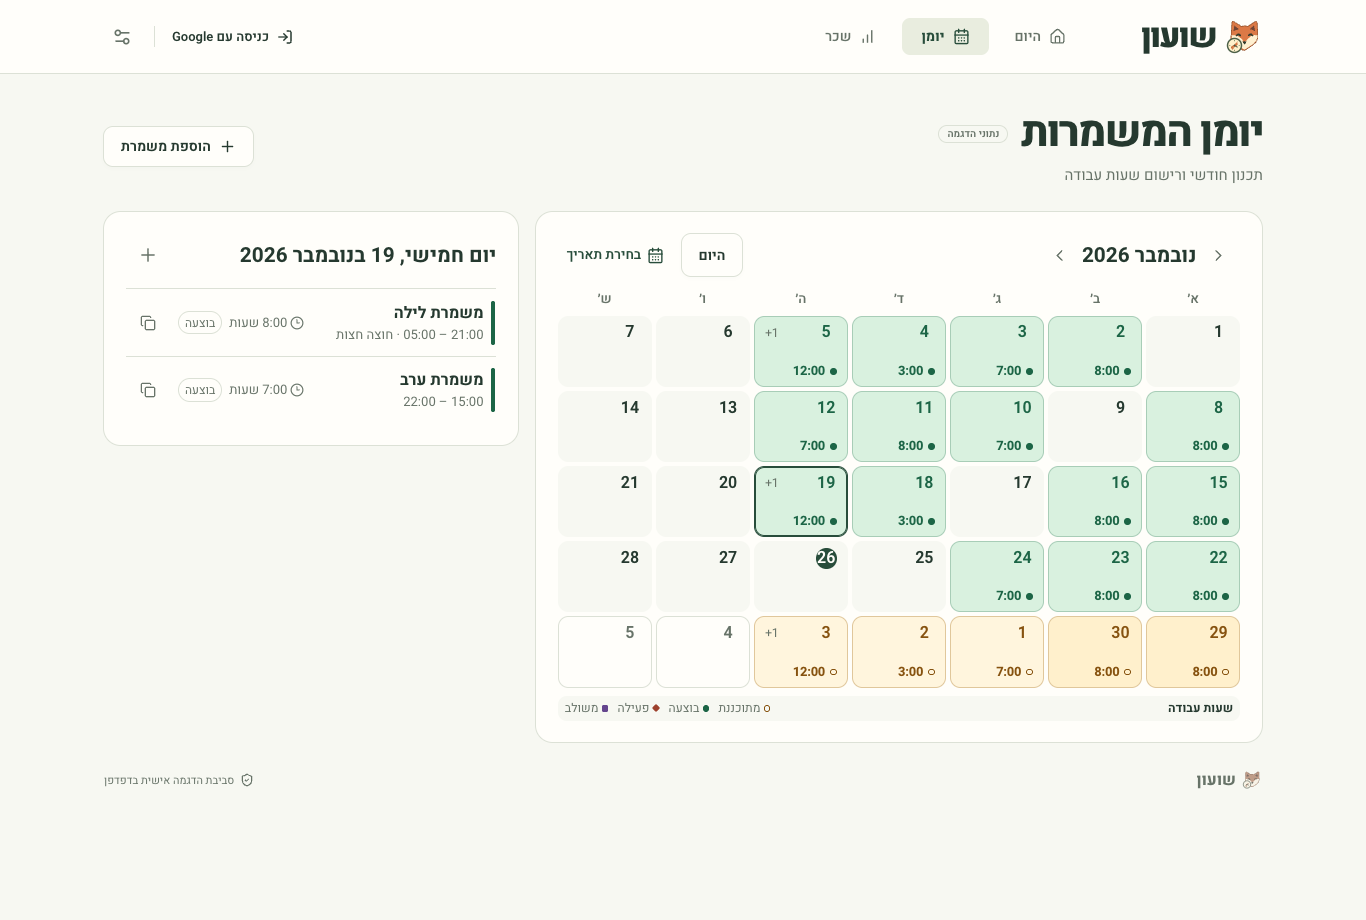
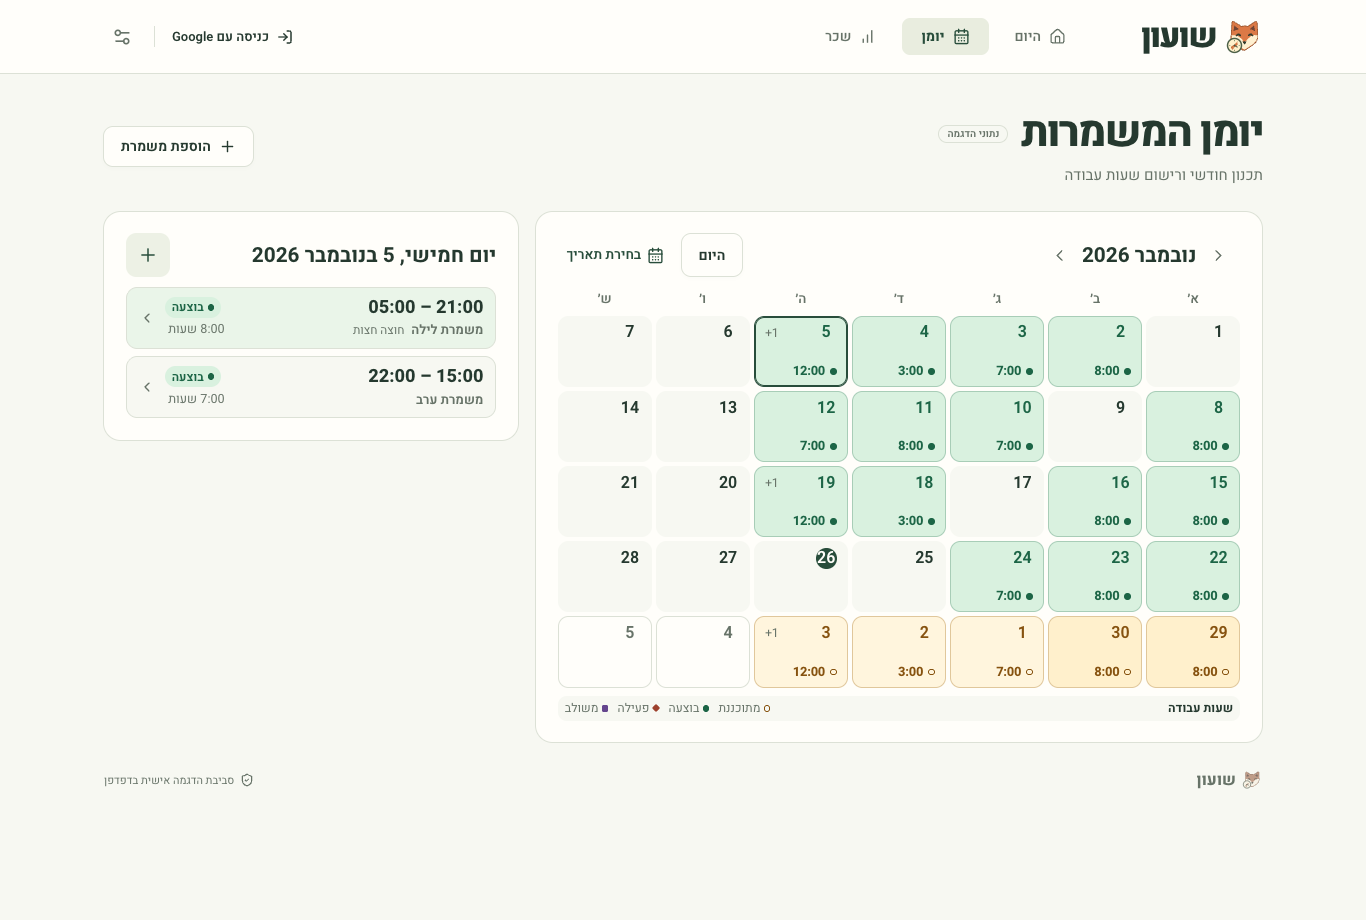
Make daily shift details easier to scan

diff --git a/src/components/Calendar.tsx b/src/components/Calendar.tsx
@@ -1,5 +1,5 @@
 import { useEffect, useId, useLayoutEffect, useMemo, useRef, useState, type KeyboardEvent } from 'react'
-import { CalendarDays, ChevronLeft, ChevronRight, Clock3, Copy, Plus } from 'lucide-react'
+import { CalendarDays, ChevronLeft, ChevronRight, Plus } from 'lucide-react'
 import type { WorkShift } from '../data/model'
 import { formatWorkDuration, shiftWorkMillis, workMillisOnDay } from '../data/shift-hours'
 import { addDays, addMonths, dateMs, localDate, localTime, monthDays } from '../domain/time'
@@ -13,7 +13,6 @@ interface CalendarProps {
   onDate: (date: string) => void
   onEdit: (shift: WorkShift) => void
   onAdd: (date: string) => void
-  onDuplicate: (shift: WorkShift) => void
 }
 
 const dateLabel = new Intl.DateTimeFormat('he-IL', {
@@ -114,7 +113,6 @@ export function Calendar({
   onDate,
   onEdit,
   onAdd,
-  onDuplicate,
 }: CalendarProps) {
   const [now, setNow] = useState(Date.now)
   const hasActive = shifts.some((shift) => shift.status === 'active')
@@ -326,38 +324,37 @@ export function Calendar({
                   const crossDay = shift.status !== 'active' && start !== localDate(shift.end)
                   return (
                     <li key={shift.id}>
-                      <button className="cal-entry" type="button" onClick={() => onEdit(shift)}>
-                        <span className="cal-mark" data-status={shift.status} aria-hidden="true" />
+                      <button
+                        className="cal-entry"
+                        data-status={shift.status}
+                        type="button"
+                        onClick={() => onEdit(shift)}
+                      >
                         <span className="cal-entry-main">
-                          <strong>{shift.title || 'משמרת עבודה'}</strong>
-                          <span>
+                          <span className="cal-entry-time">
                             <TimeRange
                               start={localTime(shift.start)}
-                              end={shift.status === 'active' ? undefined : localTime(shift.end)}
+                              end={shift.status === 'active' ? '…' : localTime(shift.end)}
                             />
-                            {crossDay && <small> · חוצה חצות</small>}
-                            {shift.status === 'active' && ' · במשמרת'}
+                          </span>
+                          <span className="cal-entry-caption">
+                            <strong>{shift.title || 'משמרת עבודה'}</strong>
+                            {crossDay && <small>חוצה חצות</small>}
                           </span>
                         </span>
-                        {shift.status !== 'active' && (
-                          <span className="cal-length">
-                            <Clock3 size={14} aria-hidden="true" />
-                            <bdi dir="ltr">{formatWorkDuration(shiftWorkMillis(shift, now))}</bdi> שעות
+                        <span className="cal-entry-meta">
+                          <span className="cal-status">
+                            <i className="cal-indicator" data-status={shift.status} aria-hidden="true" />
+                            {statusLabels[shift.status]}
                           </span>
-                        )}
-                        <span className="cal-status">{statusLabels[shift.status]}</span>
+                          {shift.status !== 'active' && (
+                            <span className="cal-length">
+                              <bdi dir="ltr">{formatWorkDuration(shiftWorkMillis(shift, now))}</bdi> שעות
+                            </span>
+                          )}
+                        </span>
+                        <ChevronLeft className="cal-entry-arrow" size={16} aria-hidden="true" />
                       </button>
-                      {shift.status !== 'active' && (
-                        <button
-                          className="icon-btn"
-                          type="button"
-                          aria-label={'שכפול ' + (shift.title || 'משמרת עבודה')}
-                          title="שכפול משמרת"
-                          onClick={() => onDuplicate(shift)}
-                        >
-                          <Copy size={16} aria-hidden="true" />
-                        </button>
-                      )}
                     </li>
                   )
                 })}

diff --git a/src/components/monthly-calendar.css b/src/components/monthly-calendar.css
@@ -68,14 +68,12 @@
 .cal-month-navigation .icon-btn,
 .cal-jump .btn,
 .cal-picker,
-.cal-agenda-heading .icon-btn,
-.cal-list .icon-btn {
+.cal-agenda-heading .icon-btn {
   min-block-size: 44px;
 }
 
 .cal-month-navigation .icon-btn,
-.cal-agenda-heading .icon-btn,
-.cal-list .icon-btn {
+.cal-agenda-heading .icon-btn {
   min-inline-size: 44px;
 }
 
@@ -369,76 +367,121 @@
   min-width: 0;
 }
 
+.cal-agenda-heading .icon-btn {
+  background: var(--tint);
+  color: var(--green);
+  border-radius: 0.65rem;
+}
+
+.cal-agenda-heading .icon-btn:hover {
+  background: var(--tag);
+}
+
 .cal-list {
+  display: grid;
+  gap: 0.45rem;
   padding: 0;
-  margin: 0.7rem 0 0;
+  margin: 0.6rem 0 0;
   list-style: none;
 }
 
-.cal-list > li,
-.cal-entry,
-.cal-length {
-  display: flex;
-  align-items: center;
-  gap: 0.45rem;
-}
-
-.cal-list > li {
-  padding-block: 0.2rem;
-  border-block-start: 1px solid var(--line);
-}
-
 .cal-entry {
-  flex: 1;
+  --entry-tone: var(--calendar-completed);
+  --entry-fill: var(--calendar-completed-fill);
+  display: grid;
+  grid-template-columns: minmax(0, 1fr) auto auto;
+  align-items: center;
+  gap: clamp(0.25rem, 1.4vw, 0.65rem);
+  width: 100%;
   min-width: 0;
-  min-height: 48px;
-  padding: 0.5rem 0.1rem;
-  border-radius: 0.5rem;
-  background: transparent;
+  min-height: 62px;
+  padding: 0.48rem clamp(0.42rem, 1.8vw, 0.75rem);
+  border: 1px solid var(--line);
+  border-radius: 0.7rem;
+  background: var(--paper);
   text-align: start;
 }
 
-.cal-entry-main {
+.cal-entry[data-status='planned'] {
+  --entry-tone: var(--calendar-planned);
+  --entry-fill: var(--calendar-planned-fill);
+}
+
+.cal-entry[data-status='active'] {
+  --entry-tone: var(--calendar-active);
+  --entry-fill: var(--calendar-active-fill);
+}
+
+.cal-entry:hover {
+  background: color-mix(in srgb, var(--entry-fill) 45%, var(--paper));
+}
+
+.cal-entry:focus-visible {
+  outline-offset: -3px;
+}
+
+.cal-entry-main,
+.cal-entry-meta {
   display: grid;
-  flex: 1;
+  gap: 0.17rem;
   min-width: 0;
-  overflow-wrap: anywhere;
 }
 
-.cal-entry-main > span,
-.cal-length,
-.cal-entry-main small {
-  color: var(--muted);
-  font-size: 0.82rem;
+.cal-entry-time {
+  color: var(--ink);
+  font-size: clamp(0.96rem, 3.7vw, 1.14rem);
+  font-weight: 750;
   font-variant-numeric: tabular-nums;
-}
-
-.cal-mark {
-  align-self: stretch;
-  flex: 0 0 0.25rem;
-  border-radius: 0.25rem;
-  background: var(--calendar-completed);
-}
-
-.cal-mark[data-status='planned'] {
-  background: var(--calendar-planned);
-}
-
-.cal-mark[data-status='active'] {
-  background: var(--calendar-active);
-}
-
-.cal-status {
-  border: 1px solid var(--line);
-  border-radius: 1rem;
-  padding: 0.1rem 0.35rem;
-  color: var(--muted);
-  font-size: 0.75rem;
+  line-height: 1.2;
   white-space: nowrap;
 }
 
+.cal-entry-caption {
+  display: flex;
+  flex-wrap: wrap;
+  align-items: baseline;
+  gap: 0 0.42rem;
+  color: var(--muted);
+  font-size: 0.81rem;
+  line-height: 1.35;
+  overflow-wrap: anywhere;
+}
+
+.cal-entry-caption strong {
+  font-weight: 650;
+}
+
+.cal-entry-caption small {
+  font-size: 0.74rem;
+  white-space: nowrap;
+}
+
+.cal-entry-meta {
+  justify-items: end;
+}
+
+.cal-status {
+  display: flex;
+  align-items: center;
+  gap: 0.25rem;
+  border-radius: 1rem;
+  padding: 0.08rem 0.42rem;
+  background: var(--entry-fill);
+  color: var(--entry-tone);
+  font-size: 0.75rem;
+  font-weight: 650;
+  white-space: nowrap;
+}
+
+.cal-length,
+.cal-entry-arrow {
+  color: var(--muted);
+}
+
 .cal-length {
-  gap: 0.18rem;
+  padding-inline-end: 0.2rem;
+  font-size: 0.79rem;
+  font-variant-numeric: tabular-nums;
   white-space: nowrap;
 }
 
@@ -462,8 +505,7 @@
     min-inline-size: 5.7rem;
   }
 
-  .cal-picker > span,
-  .cal-length > svg {
+  .cal-picker > span {
     display: none;
   }
 

diff --git a/src/App.tsx b/src/App.tsx
@@ -474,7 +474,6 @@ function WorkspaceApp({ user }: { user: User | null }) {
             onDate={setDay}
             onEdit={showDetail}
             onAdd={(date) => setEditor({ date })}
-            onDuplicate={(s) => setEditor({ initial: s, duplicate: true, date: day })}
           />
         )}
         {page === 'salary' && !wage.issue && (
